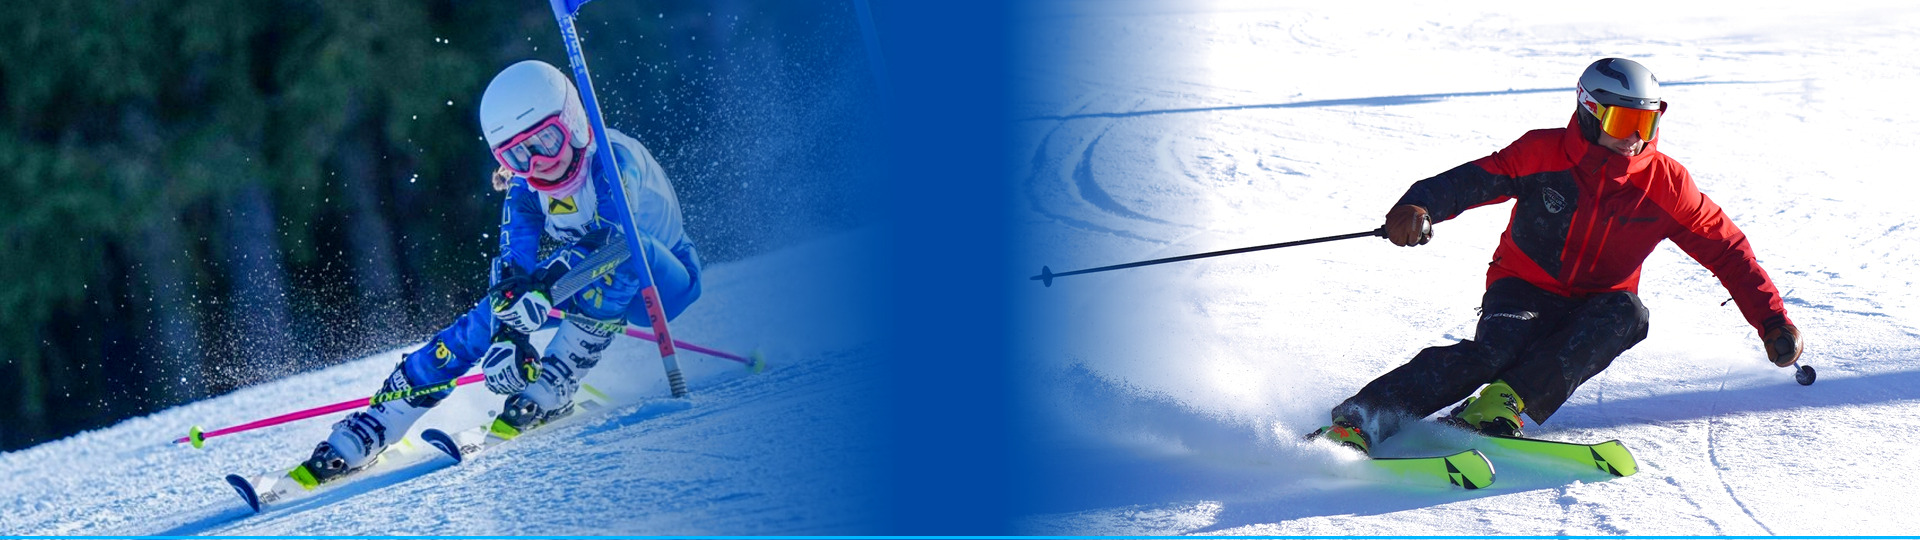
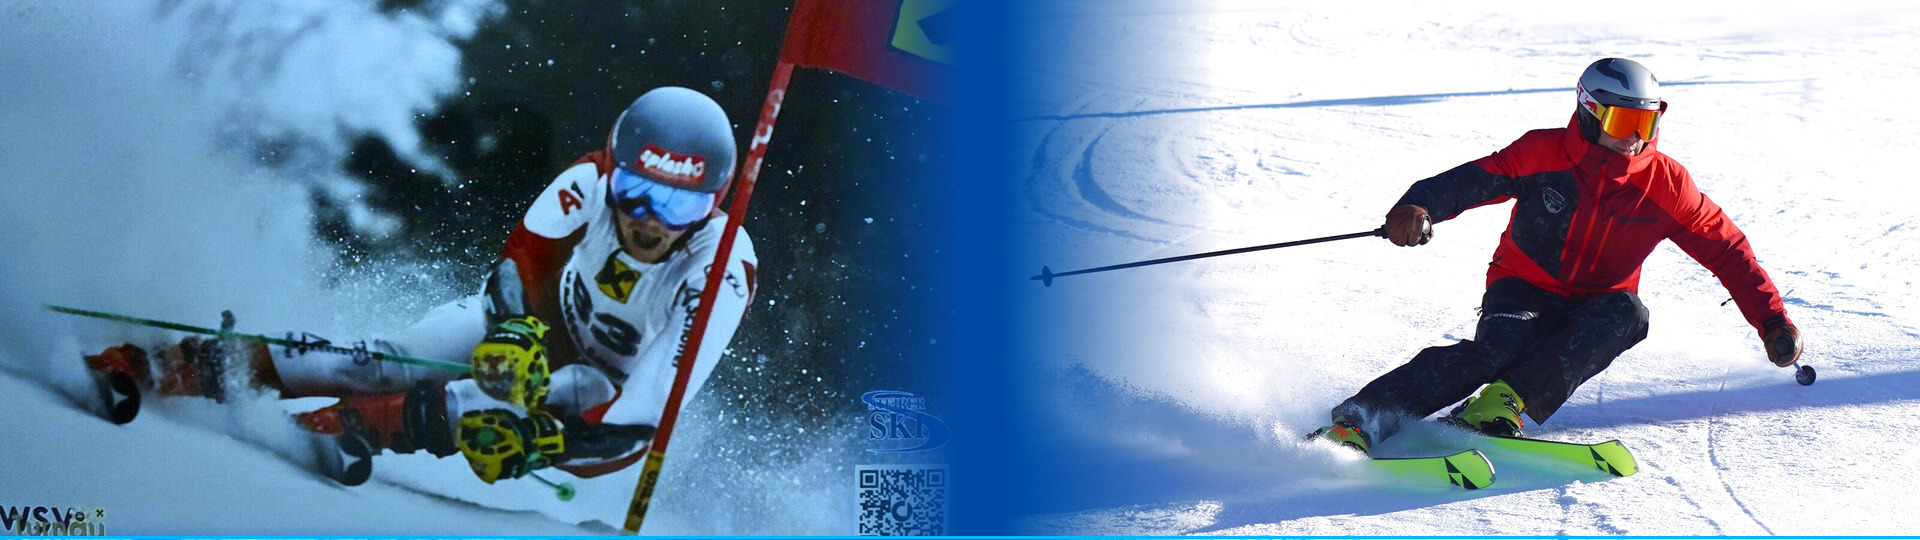
feat: nikki and remove trainer text

diff --git a/variation-chosen/css/theme.css b/variation-chosen/css/theme.css
@@ -137,9 +137,9 @@ body.platform.standalone {
   position: absolute;
   left: 0;
   right: 0;
-  top: calc(clamp(98px, 10.9vw, 140px) - 35px);
-  bottom: auto;
-  z-index: 3;
+  top: auto;
+  bottom: calc(clamp(58px, 6vw, 78px) + 10px);
+  z-index: 4;
   width: 100%;
   padding: 0 30px;
 }
@@ -222,88 +222,6 @@ body.platform.standalone {
   opacity: 0.92;
   margin-top: 8px;
   text-shadow: 0 2px 12px rgba(0, 0, 0, 0.8);
-}
-
-/* Coach Badges */
-.hero-athlete-badge {
-  display: inline-flex;
-  align-items: center;
-  gap: 12px;
-  background: rgba(15, 23, 42, 0.75);
-  border: 1px solid rgba(255, 255, 255, 0.25);
-  padding: 8px 16px;
-  border-radius: 12px;
-  margin-bottom: 24px;
-  backdrop-filter: blur(10px);
-  box-shadow: 0 4px 20px rgba(0, 0, 0, 0.25);
-  transition: transform 0.2s ease, border-color 0.2s ease;
-}
-
-.hero-athlete-badge:hover {
-  transform: translateY(-2px);
-  border-color: var(--scg-primary);
-}
-
-.athlete-badge-avatar {
-  width: 36px;
-  height: 36px;
-  border-radius: 50%;
-  background: var(--scg-primary);
-  display: flex;
-  align-items: center;
-  justify-content: center;
-  color: #FFFFFF;
-  font-weight: 800;
-  font-size: 14px;
-  box-shadow: 0 2px 8px rgba(0, 0, 0, 0.3);
-}
-
-.athlete-badge-text {
-  display: flex;
-  flex-direction: column;
-}
-
-.athlete-badge-name {
-  color: #FFFFFF;
-  font-weight: 700;
-  font-size: 15px;
-  letter-spacing: 0.3px;
-}
-
-.athlete-badge-role {
-  color: #0284C7;
-  font-size: 12px;
-  font-weight: 600;
-  letter-spacing: 0.5px;
-  text-transform: uppercase;
-}
-
-.trainer-pill {
-  background: var(--scg-primary);
-  color: #FFFFFF;
-  font-size: 10px;
-  font-weight: 800;
-  padding: 3px 8px;
-  border-radius: 9999px;
-  letter-spacing: 0.5px;
-  text-transform: uppercase;
-}
-
-.hero-athlete-stack {
-  position: absolute;
-  bottom: calc(clamp(58px, 6vw, 78px) + 10px);
-  left: 50%;
-  right: auto;
-  transform: translateX(-50%);
-  z-index: 4;
-  display: flex;
-  flex-direction: column;
-  align-items: center;
-  gap: 10px;
-}
-
-.hero-athlete-stack .hero-athlete-badge {
-  margin-bottom: 0;
 }
 
 /* Cards & Content Sections */
@@ -390,9 +308,6 @@ section.page-teaser-articles-list .page-section-header.container-fluid {
   }
   .hero-content-wrapper {
     padding: 0 18px;
-    top: calc(clamp(18px, 2.4vw, 30px) + 43px);
-  }
-  .hero-athlete-stack {
     bottom: 76px;
   }
 }

diff --git a/variation-chosen/index.html b/variation-chosen/index.html
@@ -145,22 +145,6 @@
   <div class="hero-banner-inner">
     <div class="hero-backdrop"></div>
     <div class="hero-overlay"></div>
-    <div class="hero-athlete-stack">
-      <div class="hero-athlete-badge">
-        <div class="athlete-badge-text">
-          <span class="athlete-badge-name">Philipp Papst (rechts)</span>
-          <span class="athlete-badge-role">Ski Austria D-Trainer</span>
-        </div>
-        <span class="trainer-pill">Sportlicher Leiter</span>
-      </div>
-      <div class="hero-athlete-badge">
-        <div class="athlete-badge-text">
-          <span class="athlete-badge-name">Thomas Kubat</span>
-          <span class="athlete-badge-role">Ski Austria D-Trainer</span>
-        </div>
-        <span class="trainer-pill">Cheftrainer</span>
-      </div>
-    </div>
     <div class="hero-content-wrapper">
       <div class="hero-content">
         <h1 class="hero-title">
